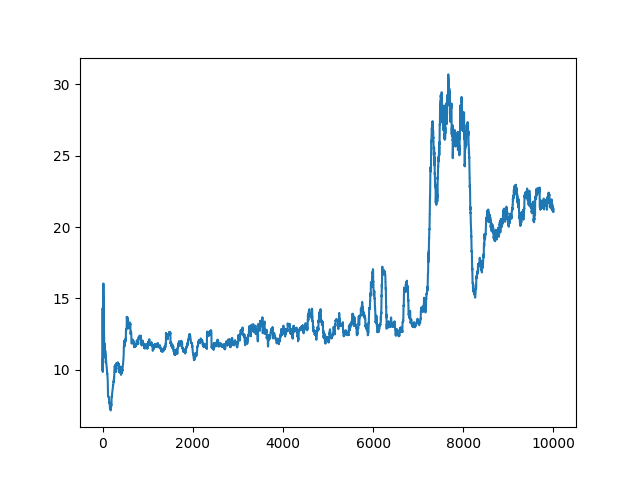
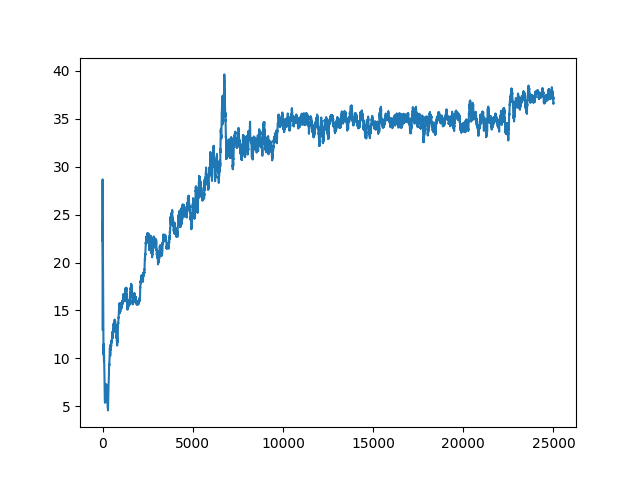
Added blank progress report

diff --git a/gymnasium_env/envs/v0_thin_ice_env.py b/gymnasium_env/envs/v0_thin_ice_env.py
@@ -146,7 +146,7 @@ class ThinIceEnv(gym.Env):
         # Determine reward
         self.visited_tiles.add(self.level.player_position)
         reward = len(self.visited_tiles) / self.level.n_visitable_tiles if position_changed else 0
-        #reward = reward + 1 if target_reached else reward
+        reward = reward + 1 if target_reached else reward
 
         # Set terminated if target is reached
         terminated = target_reached

diff --git a/gymnasium_env/envs/v0_thin_ice_train.py b/gymnasium_env/envs/v0_thin_ice_train.py
@@ -110,7 +110,7 @@ class ThinIceQLearningAgent(ThinIceTrainingAgent):
 
 if __name__ == '__main__':
     agent: ThinIceQLearningAgent = ThinIceQLearningAgent('thin-ice-v0', 'level_8.txt')
-    #agent.train(n_episodes=10000, step_size=0.1, gamma=1, epsilon=0.1)
+    #agent.train(n_episodes=25000, step_size=0.1, gamma=1, epsilon=0.1)
     agent.deploy(render=True)
 
 
